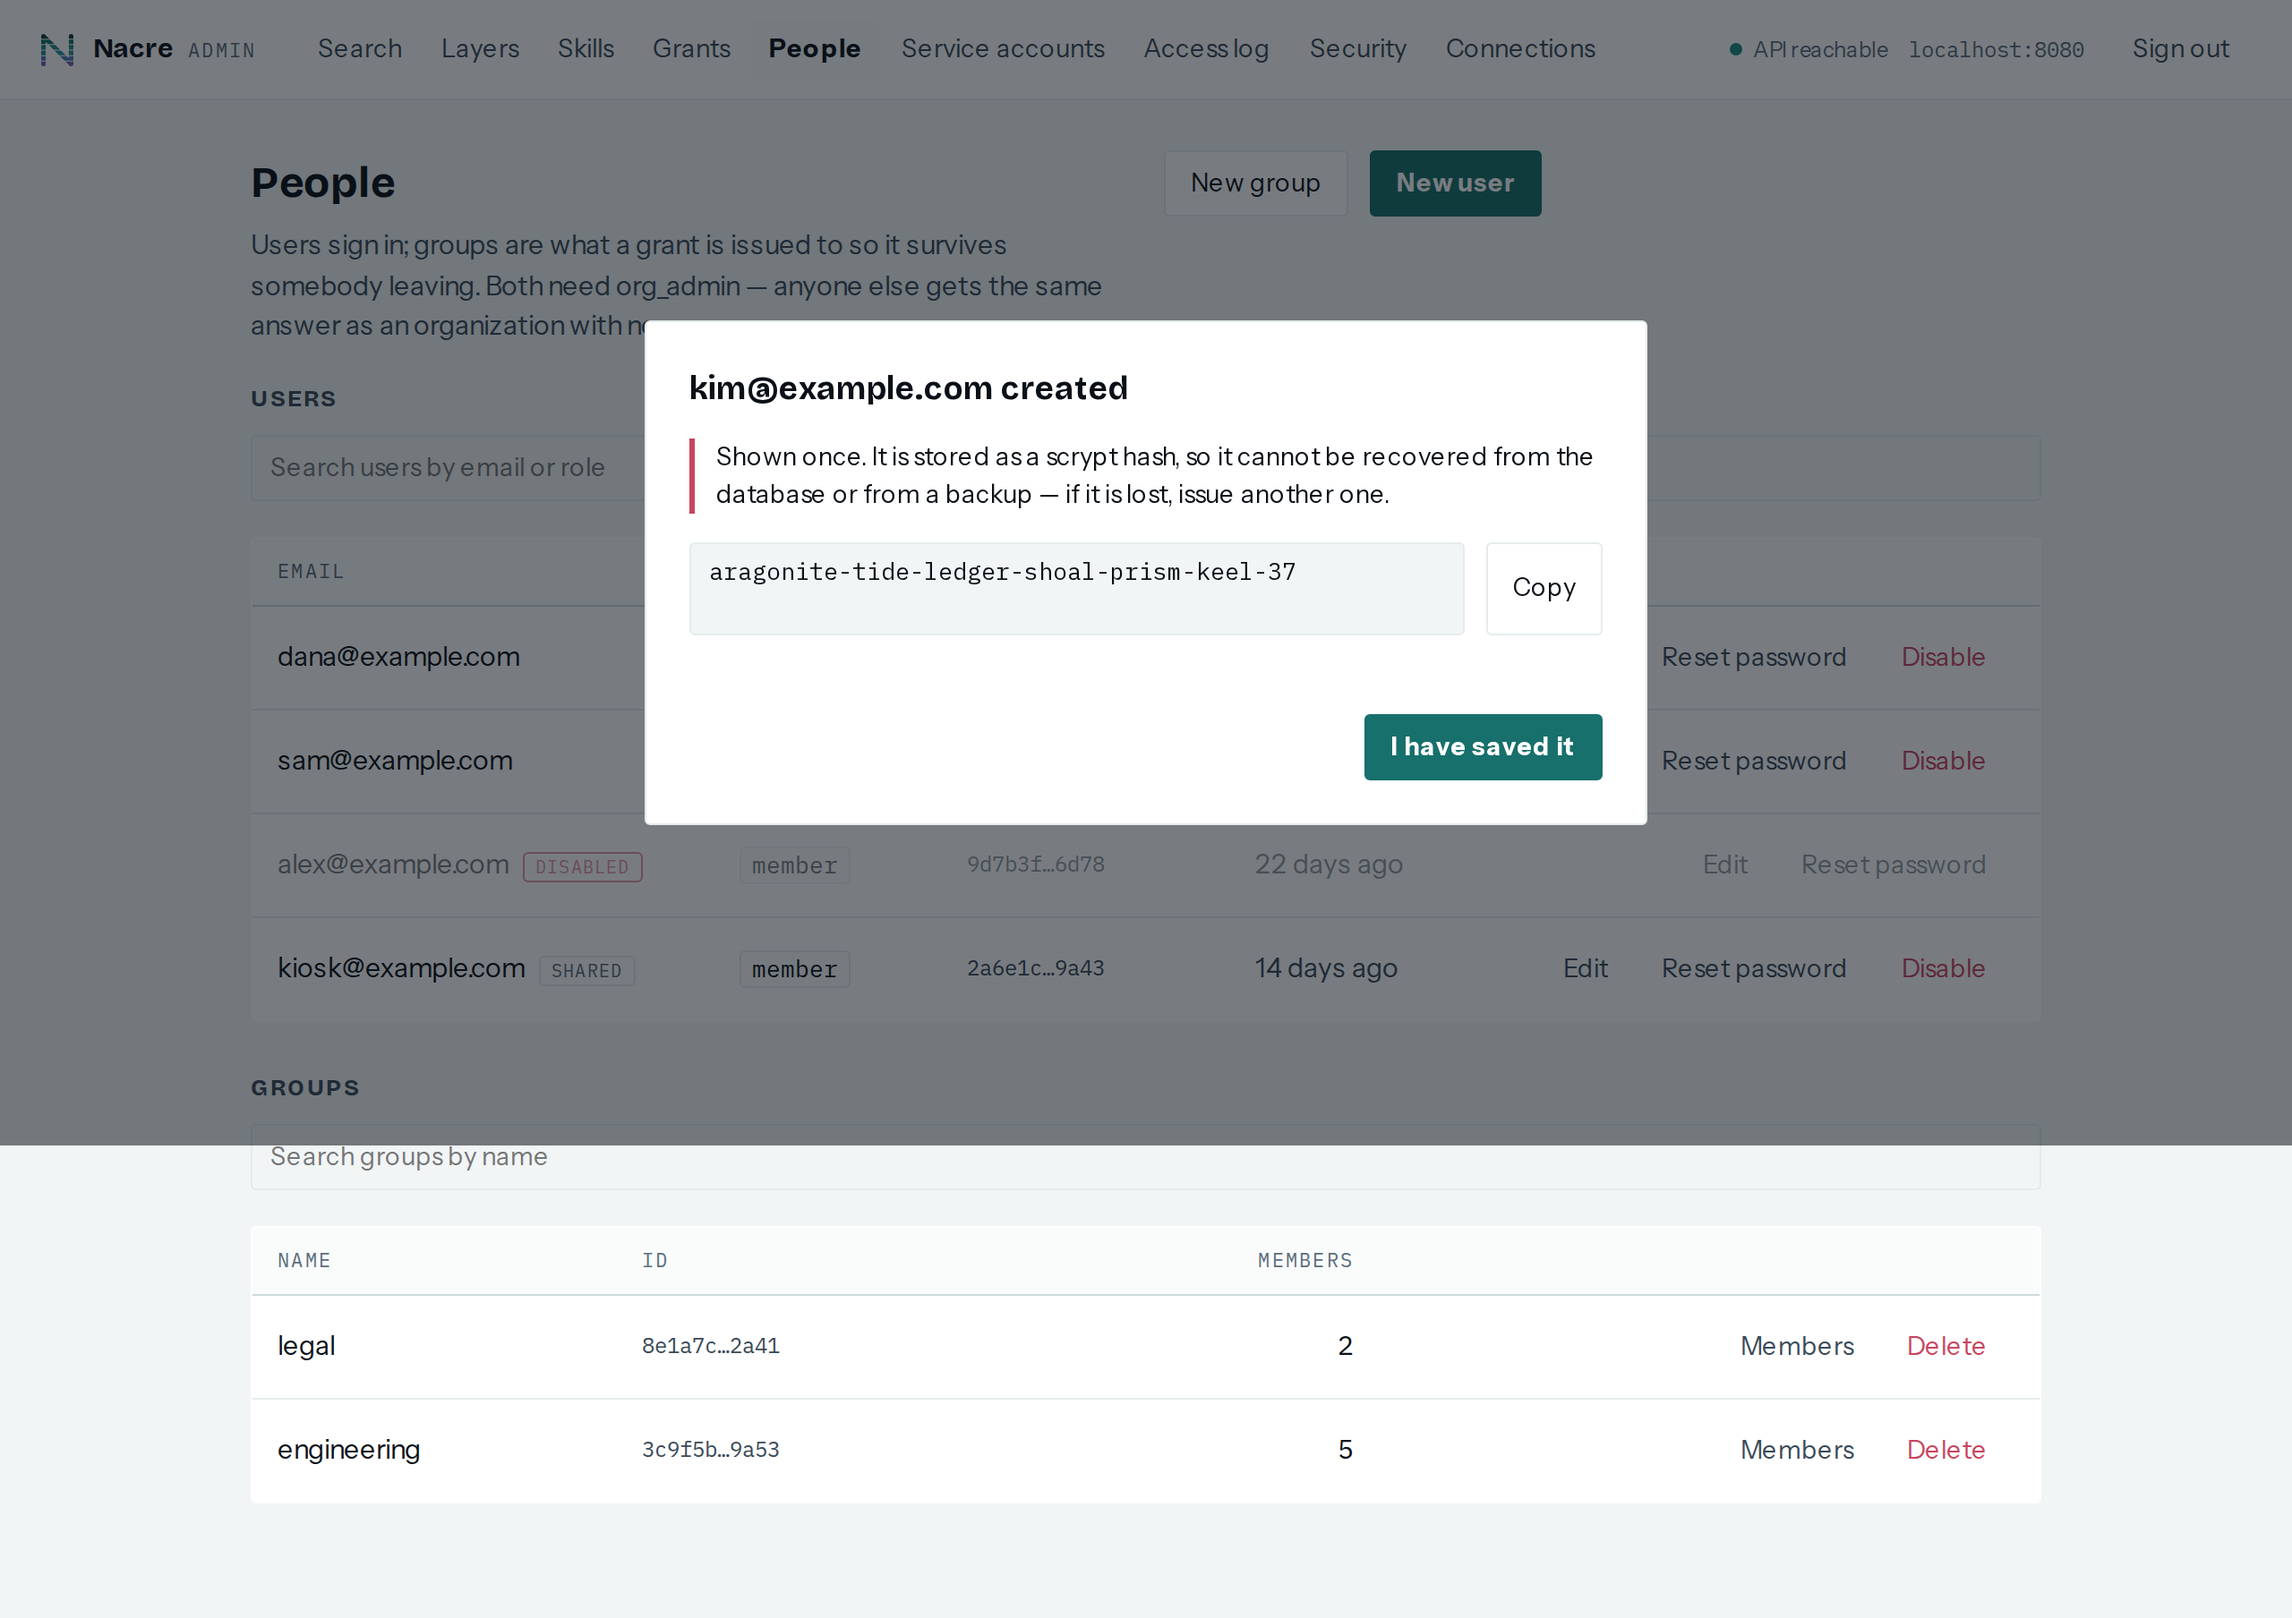
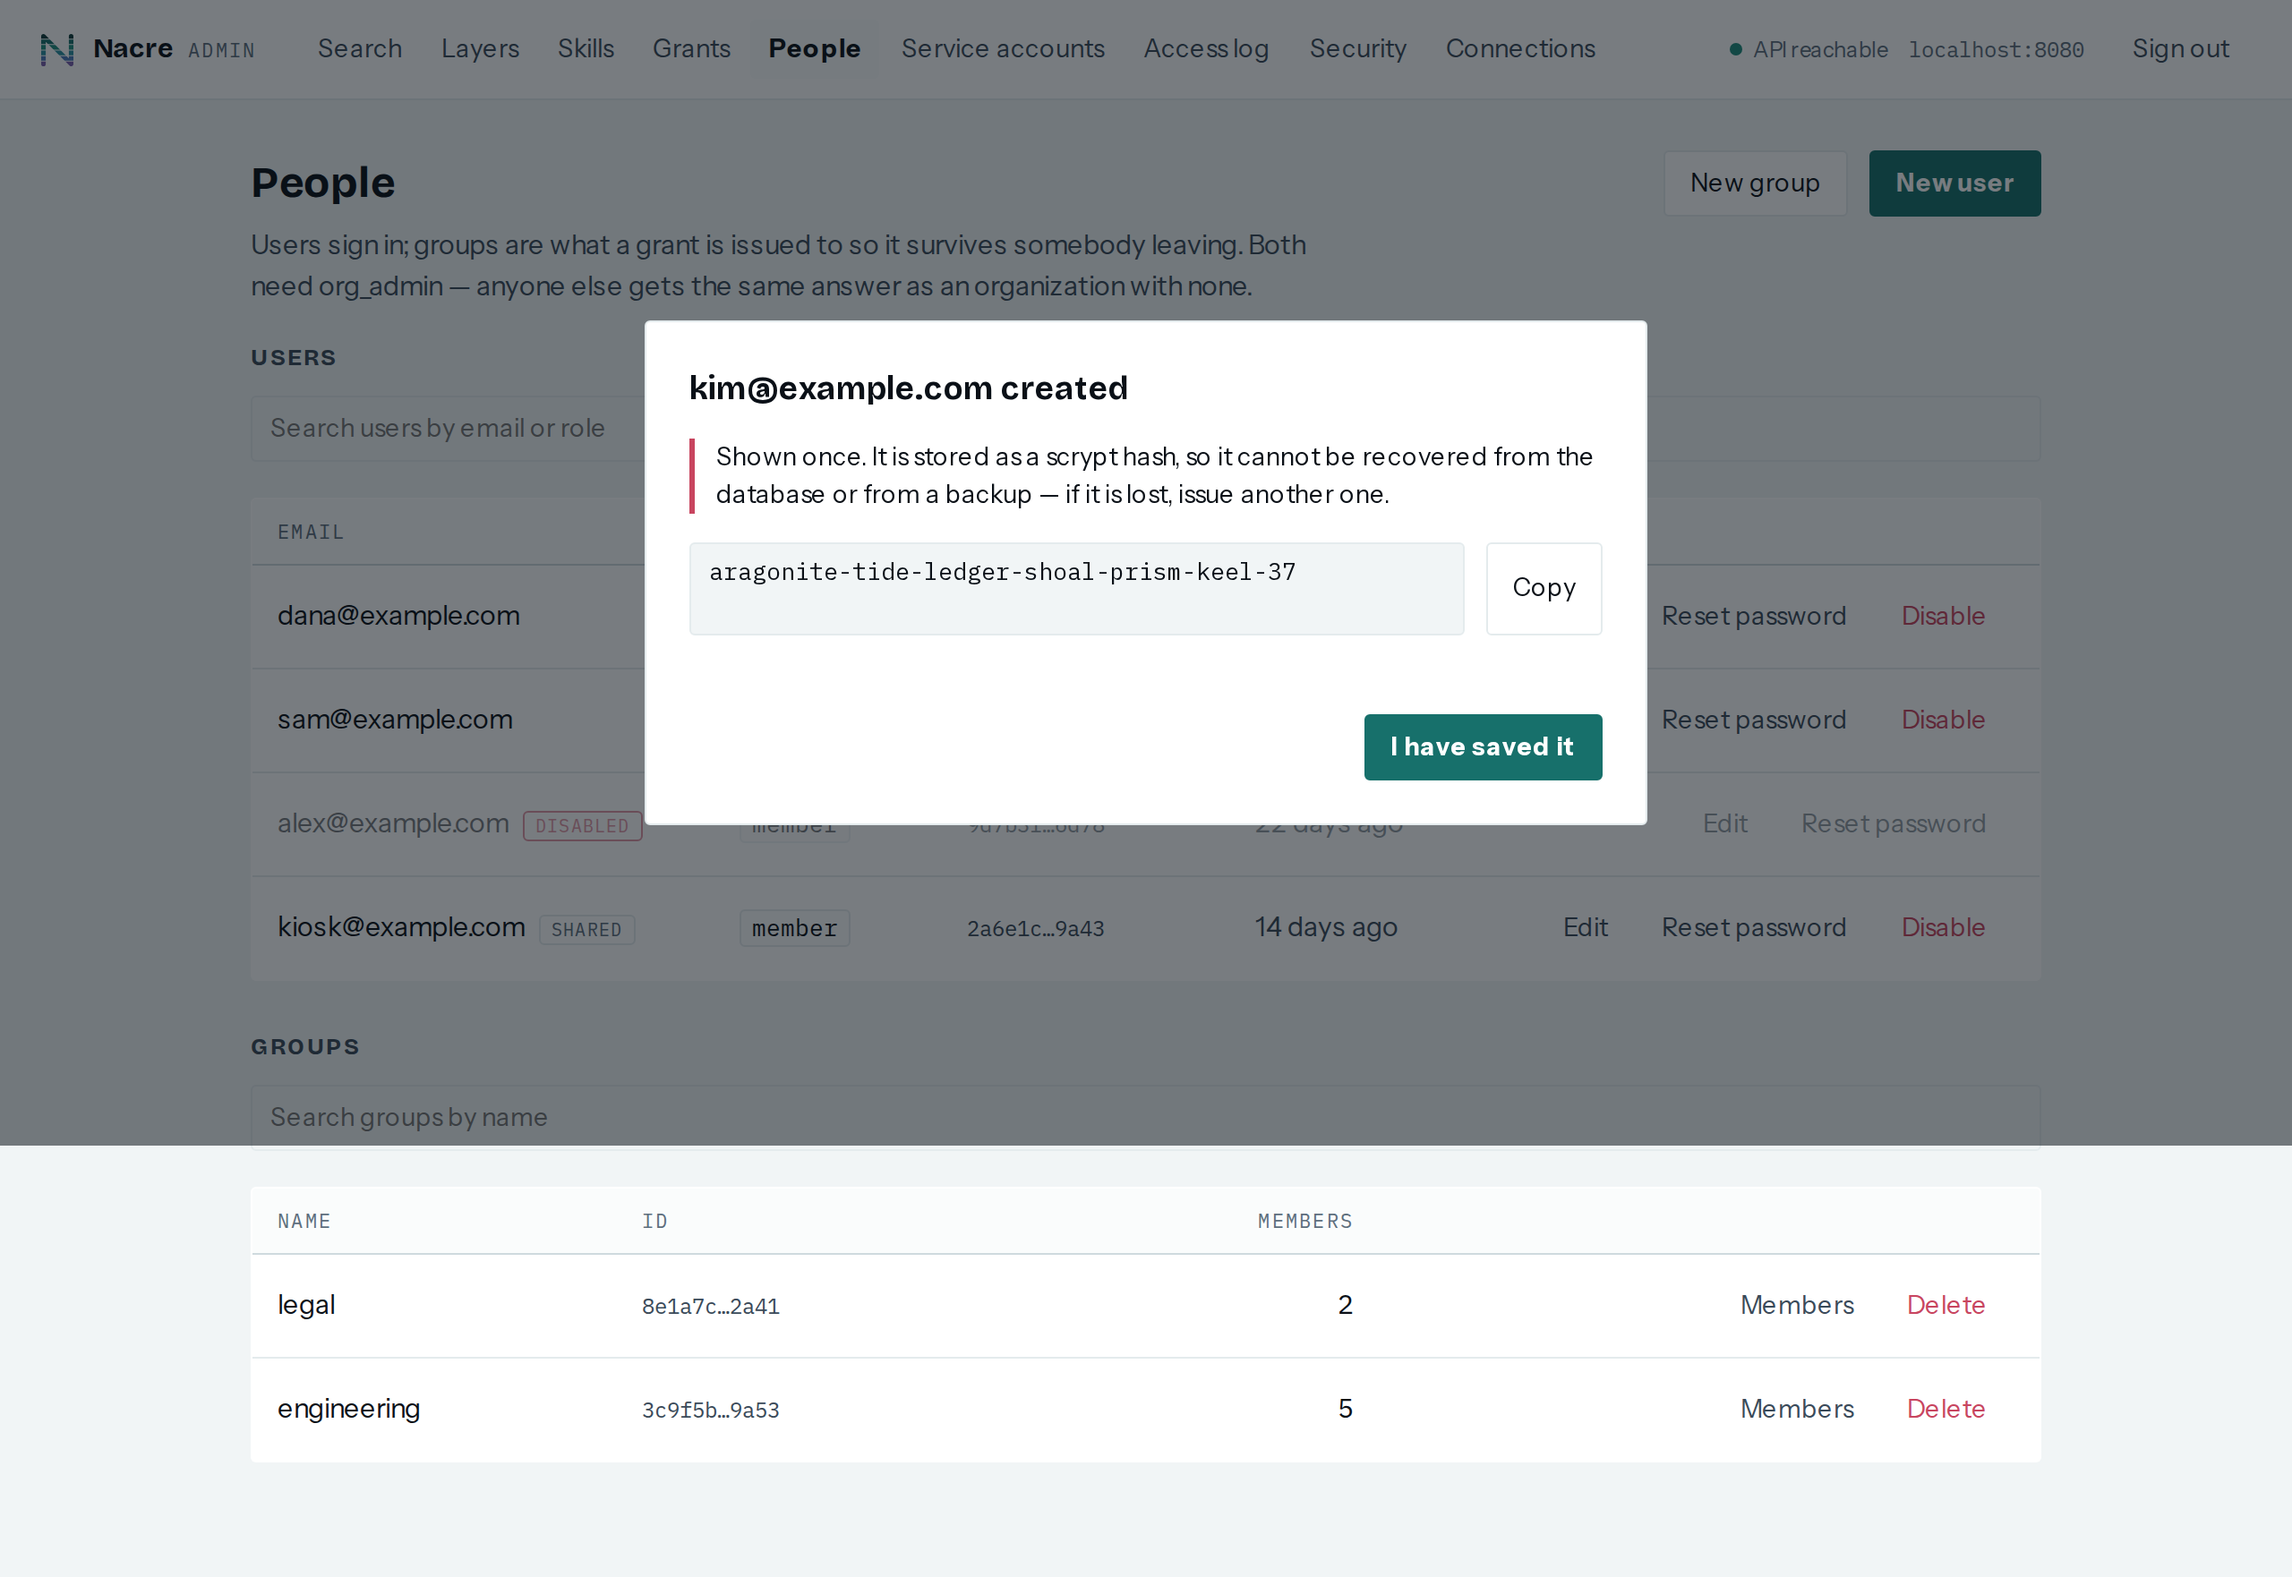
fix(admin): head actions at the edge, ids shortened in the access log, empty states centred — 0.38.2
Three console defects found by walking the console to write its manual, each
repaired as a rule in scripts/layout-rules.mjs rather than as an edit:

- headActionsAtEdge: People's New group / New user sat mid-row because
  `.view-head > div { flex: 1 }` also matched the button group. The heading
  block alone grows now.
- idsShortened: the Access log shortened an id only when it was the whole
  value, so a search's returned_docs printed as full uuids and a grant's
  `scope: layer:<uuid>` carried one. Every uuid is shortened wherever it
  occurs, a list stops after five, and slugs are comma-and-space separated.
  The fixture's search and grant targets are the shapes the server writes.
- emptyStateCentred: "No second factor" centred its words and left its
  buttons at the box's edge; `.empty .row` centres now. A security-none
  shot photographs the state every account starts in.

Each rule was run before its fix and named exactly the shots it should.

Claude-Session: https://claude.ai/code/session_01VyoRZgaKQuJJSJ6iSPBHD7

diff --git a/packages/admin/src/views/audit.ts b/packages/admin/src/views/audit.ts
@@ -396,7 +396,7 @@ const empty = (query: AuditQuery) =>
  * The target is rendered as its own fields rather than as JSON, because the
  * question a reader has is "which document" or "which layer" and a brace does
  * not help them. A uuid is shortened the way every other id on these screens
- * is; anything else is printed whole.
+ * is, wherever in a value it occurs — see `targetValue`.
  *
  * ## The actor is named, and `actor.label` is deliberately not what names it
  *
@@ -435,6 +435,50 @@ const empty = (query: AuditQuery) =>
  * edge reads as the values meaning different amounts of something, when what
  * differs is how many letters they happen to have.
  */
+const UUID_IN = /[0-9a-f]{8}-[0-9a-f]{4}-[0-9a-f]{4}-[0-9a-f]{4}-[0-9a-f]{12}/gu
+
+/** How many items of a list a row shows before saying how many more there are. */
+const LISTED = 5
+
+/**
+ * One field of a target, as nodes.
+ *
+ * Every uuid is shortened **wherever it occurs**, not only where it is the
+ * whole value. This shortened a value that was exactly a uuid and printed
+ * anything else with `String()` — and the two targets this screen shows most
+ * are neither: a search names `returned_docs`, an array, and a grant names
+ * `scope: layer:<uuid>` and `principal: group:<uuid>`. So a search row was a
+ * wall of whole uuids joined by bare commas, and an array of slugs read
+ * `handbook,engineering`. Found by looking at a running stand while writing the
+ * manual; the screenshot fixture could not show it, because its search and
+ * grant targets were shapes no server writes.
+ *
+ * A list stops after `LISTED` items and says how many it left out. The whole
+ * list is in the export, which is where a reader who needs every id goes, and
+ * the document filter above already answers "which searches returned this".
+ */
+function targetValue(value: unknown): (string | HTMLElement)[] {
+  if (Array.isArray(value)) {
+    if (value.length === 0) return ['none']
+    const shown = value.slice(0, LISTED).flatMap((item, i) => [...(i === 0 ? [] : [', ']), ...targetValue(item)])
+    return value.length > LISTED ? [...shown, ` and ${value.length - LISTED} more`] : shown
+  }
+  if (typeof value === 'string') {
+    const parts: (string | HTMLElement)[] = []
+    let last = 0
+    for (const match of value.matchAll(UUID_IN)) {
+      const at = match.index ?? 0
+      if (at > last) parts.push(value.slice(last, at))
+      parts.push(shortId(match[0]))
+      last = at + match[0].length
+    }
+    if (last < value.length) parts.push(value.slice(last))
+    return parts
+  }
+  if (value !== null && typeof value === 'object') return [JSON.stringify(value)]
+  return [String(value)]
+}
+
 /** The connection a row came through, from `client` as `connection:<id>`. */
 const connectionOf = (record: AuditRecord): string | undefined =>
   record.client?.startsWith('connection:') === true ? record.client.slice('connection:'.length) : undefined
@@ -471,10 +515,7 @@ function row(record: AuditRecord, resolved: Names, onActor: (id: string) => void
     h('td', { class: 'named' },
       ...(target.length === 0
         ? [h('span', { class: 'muted' }, '—')]
-        : target.map(([key, value]) => h('div', { class: 'muted' },
-            `${key}: `,
-            typeof value === 'string' && /^[0-9a-f-]{36}$/u.test(value) ? shortId(value) : String(value),
-          ))),
+        : target.map(([key, value]) => h('div', { class: 'muted' }, `${key}: `, ...targetValue(value)))),
     ),
     h('td', {}, h('span', { class: `chip chip-${FILL[record.result]}` }, record.result)),
   )

diff --git a/packages/admin/public/admin.css b/packages/admin/public/admin.css
@@ -134,7 +134,11 @@ a { color: var(--n-accent); }
 .main { max-width: 1040px; margin: 0 auto; padding: 28px 20px 64px; }
 
 .view-head { display: flex; align-items: flex-start; gap: 20px; margin-bottom: 20px; }
-.view-head > div { flex: 1; }
+/* The heading block grows and nothing else does. This said `> div`, which also
+   matched People's group of two buttons, so the group grew too and the two
+   shared the row in halves — the buttons sat mid-screen. `headActionsAtEdge`
+   in scripts/layout-rules.mjs holds it. */
+.view-head > :first-child { flex: 1; }
 .view-head > * { margin-top: 0; }
 .lede { color: var(--n-text-muted); margin: 6px 0 0; max-width: 62ch; }
 
@@ -380,6 +384,9 @@ a { color: var(--n-accent); }
    neither existed until the layers one started saying what to do next. */
 .empty p + p { margin-top: 10px; }
 .empty .btn { margin-top: 18px; }
+/* `text-align` centres a bare button and does not move flex items, so a row of
+   them sat at the box's left under centred words. `emptyStateCentred` holds it. */
+.empty .row { justify-content: center; }
 
 .error {
   border: 1px solid var(--n-deny);

diff --git a/CLAUDE.md b/CLAUDE.md
@@ -3646,6 +3646,20 @@ skill, which is visible exactly when the layer is. `layers-member` is the shot
 that was missing, and it throws on the first refused control rather than
 photographing it; the shipped view named `Rename` the moment it was put back.
 
+**Three more came off the same walk, and each is a rule now rather than an edit
+— 0.38.2.** People's two head buttons sat mid-row because `.view-head > div {
+flex: 1 }` was written for the heading block and also matched the button group,
+which is a `div` too. The Access log shortened an id only when it was the
+*whole* value, so a search's `returned_docs` printed as a wall of full uuids and
+a grant's `scope: layer:<uuid>` carried one — invisible to the screenshot pass
+because its search and grant targets were shapes no server writes, which is the
+fixture-agrees-with-code defect once more. And "No second factor" centred its
+words and left its buttons at the box's edge, since `text-align` does not move
+flex items — in the state every account starts in, which no shot photographed.
+`headActionsAtEdge`, `idsShortened` and `emptyStateCentred` are in
+`layout-rules.mjs`, so the commercial console is held to them too; each was run
+before its fix and named exactly the shots it should, and nothing else.
+
 - **English everywhere** — code, comments, commits, branches, issues, PRs, docs.
 - Conventional Commits: `feat:`, `fix:`, `docs:`, `chore:`.
 - Squash merge, linear history. One PR, one topic.

diff --git a/docs/upgrading.md b/docs/upgrading.md
@@ -285,6 +285,26 @@ matching covers the whole corpus rather than the recent end of it.
 Each section says what the version asked of an operator. A release that asked
 nothing says so.
 
+### 0.38.2 — three console fixes, each now a rule
+
+**Nothing to do.** Three things on the console, found by walking it to write
+its manual:
+
+- The **People** screen's **New group** and **New user** sat in the middle of
+  the row instead of at its right edge, where every other screen puts its
+  actions.
+- The **Access log** printed every id it could not see as a whole value: a
+  search's returned documents as a run of full uuids, and a grant's
+  `scope: layer:<uuid>`. Every id there is shortened now, wherever in a value it
+  occurs, a list stops after five with how many more there are, and a list of
+  slugs reads `handbook, engineering`. The export still carries every id whole.
+- The **Security** screen's "No second factor" box centred its words and put
+  its buttons at the left.
+
+`scripts/layout-rules.mjs` gains a rule for each — head actions at the edge,
+ids shortened in a table, an empty state's actions centred — and a console
+built on the extension seam is held to them from the version that ships them.
+
 ### 0.38.1 — the Layers screen by permission
 
 **Nothing to do.** The Layers screen offered **Rename**, **Model** and
